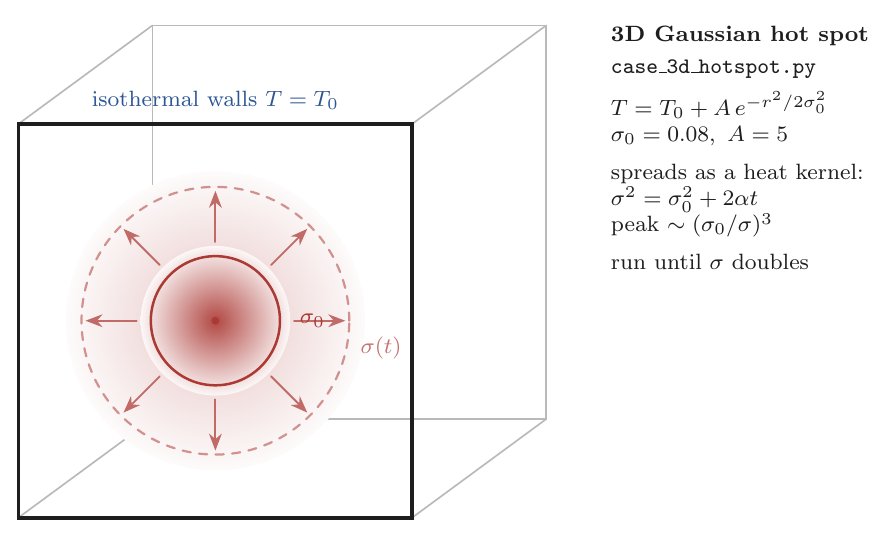
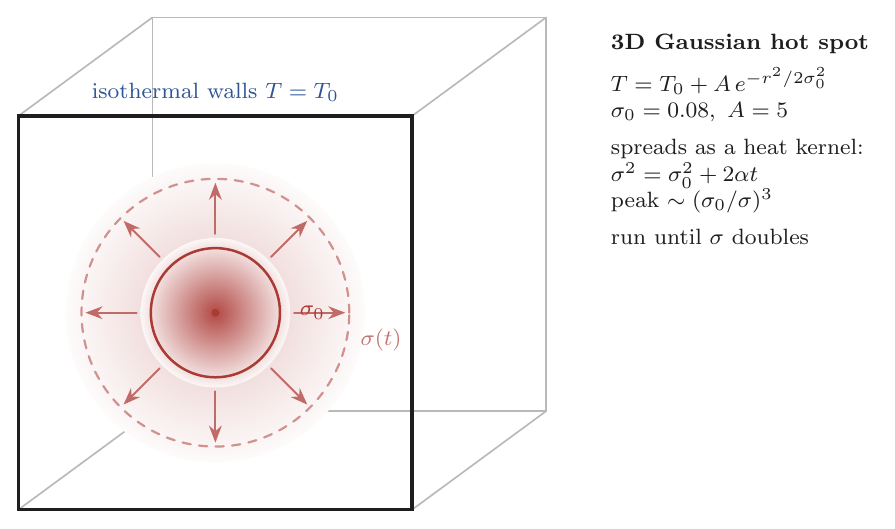
thermal_conduction examples: polish 2D/3D setup diagrams (drop stale case_*.py labels; de-overlap 2D periodic labels)

diff --git a/examples/2D_thermal_conduction_mode/diagrams/setup_2d_mode.tex b/examples/2D_thermal_conduction_mode/diagrams/setup_2d_mode.tex
@@ -40,13 +40,12 @@
   \node[gray!75, anchor=west] at (\S+0.62,2.5) {periodic};
   \draw[->, gray!70, line width=0.9pt] (1.6,-0.55) to[out=-40,in=-140] (3.4,-0.55);
   \draw[->, gray!70, line width=0.9pt] (3.4,\S+0.55) to[out=140,in=40] (1.6,\S+0.55);
-  \node[gray!75, anchor=north] at (2.5,-0.66) {periodic};
-  \node[gray!75, anchor=south] at (2.5,\S+0.66) {periodic};
+  \node[gray!75, anchor=north] at (2.5,-1.0) {periodic};
+  \node[gray!75, anchor=south] at (2.5,\S+1.0) {periodic};
 
   % annotation
   \node[inkc, anchor=west, align=left] at (\S+1.7,\S-0.4)
-    {\textbf{2D periodic mode}\\[2pt]
-     \texttt{case\_2d\_mode.py}\\[4pt]
+    {\textbf{2D periodic mode}\\[4pt]
      $T=T_0+A\sin(kx)\sin(ky)$\\
      $k=2\pi/L$\\[4pt]
      all sides periodic\\[4pt]

diff --git a/examples/3D_thermal_conduction_hotspot/diagrams/setup_3d_hotspot.tex b/examples/3D_thermal_conduction_hotspot/diagrams/setup_3d_hotspot.tex
@@ -54,8 +54,7 @@
 
   % annotation
   \node[inkc, anchor=west, align=left] at (\S+\dx+0.7,\S-0.3)
-    {\textbf{3D Gaussian hot spot}\\[2pt]
-     \texttt{case\_3d\_hotspot.py}\\[4pt]
+    {\textbf{3D Gaussian hot spot}\\[4pt]
      $T=T_0+A\,e^{-r^2/2\sigma_0^2}$\\
      $\sigma_0=0.08,\ A=5$\\[4pt]
      spreads as a heat kernel:\\

diff --git a/examples/3D_thermal_conduction_mode/diagrams/setup_3d_mode.tex b/examples/3D_thermal_conduction_mode/diagrams/setup_3d_mode.tex
@@ -49,8 +49,7 @@
 
   % annotation
   \node[inkc, anchor=west, align=left] at (\S+\dx+0.7,\S-0.4)
-    {\textbf{3D periodic mode}\\[2pt]
-     \texttt{case\_3d\_mode.py}\\[4pt]
+    {\textbf{3D periodic mode}\\[4pt]
      $T=T_0+A\,\prod_i\sin(k x_i)$\\
      $k=2\pi/L$\\[4pt]
      all faces periodic\\[4pt]
